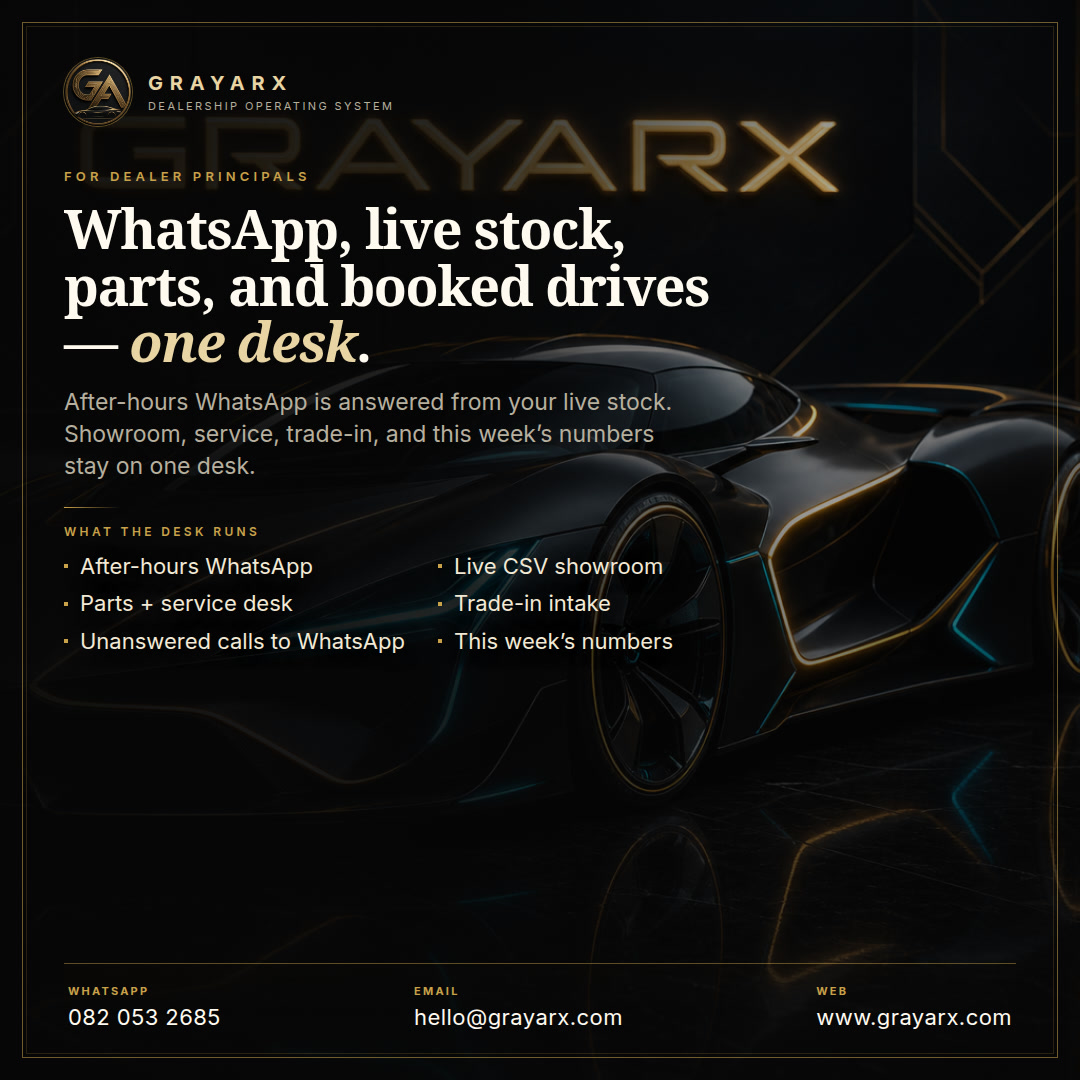
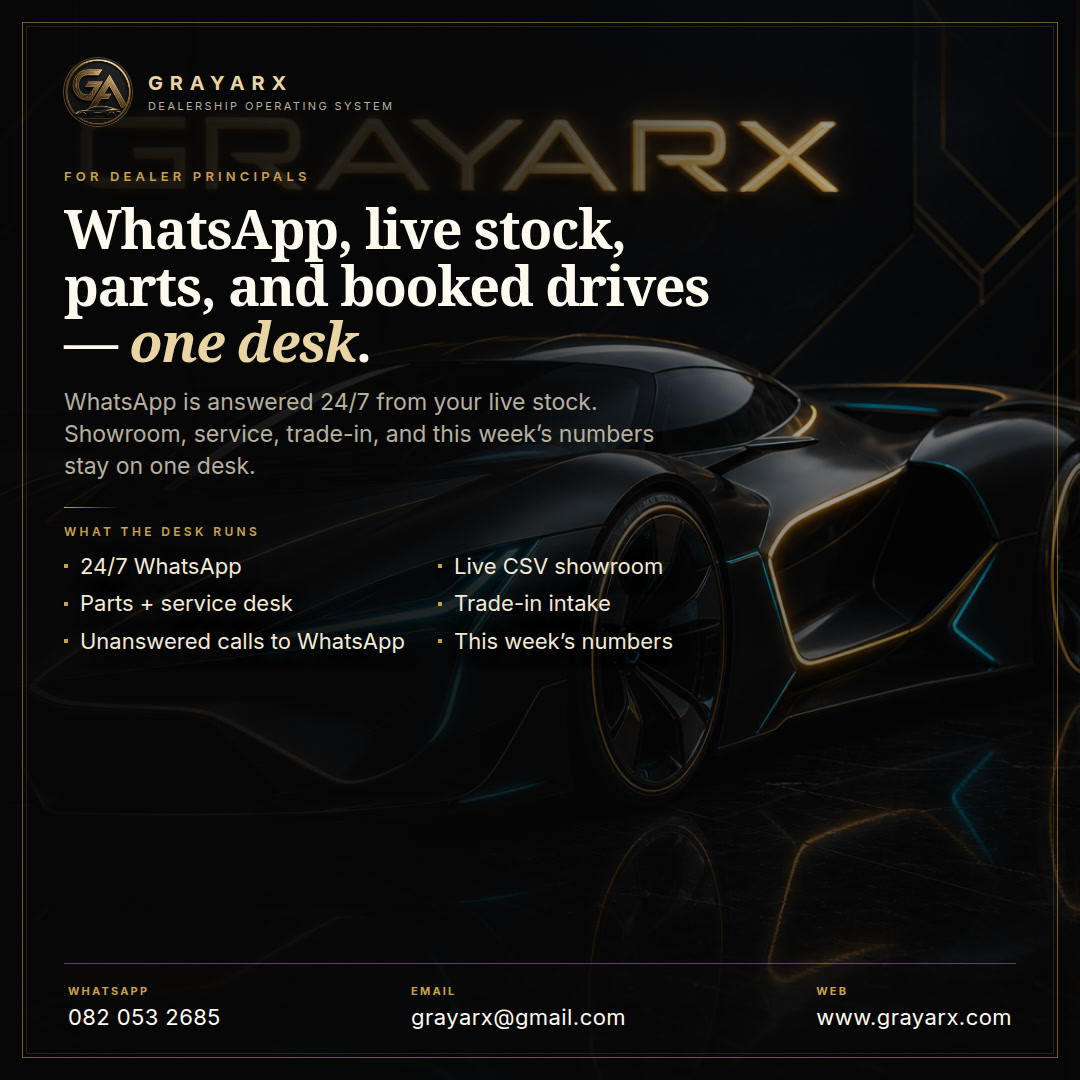
Show 24/7 WhatsApp and grayarx@gmail.com on Facebook ads.
The desk is always on, not after-hours only. Contact on the creative is the founder WhatsApp and Gmail inbox.

Changed region(s): [[0.0611, 0.3667, 0.6111, 0.3972], [0.3667, 0.9167, 0.5806, 0.9778], [0.0611, 0.5194, 0.3056, 0.55]]

diff --git a/docs/facebook-ads/templates/feed-1080.html b/docs/facebook-ads/templates/feed-1080.html
@@ -76,11 +76,11 @@
         </div>
         <div class="eyebrow">For dealer principals</div>
         <h1>WhatsApp, live stock, parts, and booked drives — <em>one desk</em>.</h1>
-        <p class="sub">After-hours WhatsApp is answered from your live stock. Showroom, service, trade-in, and this week’s numbers stay on one desk.</p>
+        <p class="sub">WhatsApp is answered 24/7 from your live stock. Showroom, service, trade-in, and this week’s numbers stay on one desk.</p>
         <div class="rule"></div>
         <div class="services-label">What the desk runs</div>
         <ul class="services" style="margin-top: 14px">
-          <li>After-hours WhatsApp</li>
+          <li>24/7 WhatsApp</li>
           <li>Live CSV showroom</li>
           <li>Parts + service desk</li>
           <li>Trade-in intake</li>
@@ -89,7 +89,7 @@
         </ul>
         <div class="contact">
           <div class="row"><span class="label">WhatsApp</span><span class="value">082 053 2685</span></div>
-          <div class="row"><span class="label">Email</span><span class="value">hello@grayarx.com</span></div>
+          <div class="row"><span class="label">Email</span><span class="value">grayarx@gmail.com</span></div>
           <div class="row"><span class="label">Web</span><span class="value">www.grayarx.com</span></div>
         </div>
       </div>

diff --git a/docs/facebook-ads/templates/story-1080x1920.html b/docs/facebook-ads/templates/story-1080x1920.html
@@ -83,11 +83,11 @@
         </div>
         <div class="eyebrow">For dealer principals</div>
         <h1>WhatsApp, live stock, parts, and booked drives — <em>one desk</em>.</h1>
-        <p class="sub">After-hours WhatsApp is answered from your live stock. Showroom, service, trade-in, and this week’s numbers stay on one desk.</p>
+        <p class="sub">WhatsApp is answered 24/7 from your live stock. Showroom, service, trade-in, and this week’s numbers stay on one desk.</p>
         <div class="rule"></div>
         <div class="services-label">What the desk runs</div>
         <ul class="services">
-          <li>After-hours WhatsApp</li>
+          <li>24/7 WhatsApp</li>
           <li>Live CSV showroom</li>
           <li>Parts + service desk</li>
           <li>Trade-in intake</li>
@@ -96,7 +96,7 @@
         </ul>
         <div class="contact">
           <div class="row"><span class="label">WhatsApp</span><span class="value">082 053 2685</span></div>
-          <div class="row"><span class="label">Email</span><span class="value">hello@grayarx.com</span></div>
+          <div class="row"><span class="label">Email</span><span class="value">grayarx@gmail.com</span></div>
           <div class="row"><span class="label">Web</span><span class="value">www.grayarx.com</span></div>
         </div>
       </div>

diff --git a/docs/facebook-ads/templates/landscape-1200x628.html b/docs/facebook-ads/templates/landscape-1200x628.html
@@ -95,10 +95,10 @@
         </div>
         <div class="eyebrow">For dealer principals</div>
         <h1>WhatsApp, live stock, parts, and booked drives — <em>one desk</em>.</h1>
-        <p class="sub">After-hours WhatsApp, live CSV showroom, service, trade-in, unanswered calls to WhatsApp, this week’s numbers.</p>
+        <p class="sub">24/7 WhatsApp, live CSV showroom, service, trade-in, unanswered calls to WhatsApp, this week’s numbers.</p>
         <div class="rule"></div>
         <ul class="services">
-          <li>After-hours WhatsApp</li>
+          <li>24/7 WhatsApp</li>
           <li>Live CSV showroom</li>
           <li>Parts, service, trade-in</li>
           <li>Unanswered calls to WhatsApp</li>
@@ -106,7 +106,7 @@
         </div>
         <div class="contact">
           <div class="row"><span class="label">WhatsApp</span><span class="value">082 053 2685</span></div>
-          <div class="row"><span class="label">Email</span><span class="value">hello@grayarx.com</span></div>
+          <div class="row"><span class="label">Email</span><span class="value">grayarx@gmail.com</span></div>
           <div class="row"><span class="label">Web</span><span class="value">www.grayarx.com</span></div>
         </div>
       </div>

diff --git a/docs/facebook-ads/README.md b/docs/facebook-ads/README.md
@@ -2,7 +2,7 @@
 
 Pixel-ready creatives + paste fields for Meta Ads Manager. The **image** explains the desk and carries contact details (a picture cannot be clicked). Meta’s own CTA button sits under the image in Ads Manager.
 
-Pitch matches `shared/cashvertising.ts`. Contact matches `client/src/lib/contact.ts`. No competitor brands. No invented testimonials. No fake buttons on the creative.
+No competitor brands. No invented testimonials. No fake buttons. No internal agent names.
 
 ## Files to upload
 
@@ -25,10 +25,10 @@ Re-render with `node docs/facebook-ads/render.mjs`.
 **Primary text**
 
 ```
-GrayArx is the dealership operating system: after-hours WhatsApp answered from your live stock, a CSV showroom that stays true, and parts, service, trade-in, unanswered calls sent to WhatsApp, and this week’s numbers on one desk.
+GrayArx is the dealership operating system: WhatsApp answered 24/7 from your live stock, a CSV showroom that stays true, and parts, service, trade-in, unanswered calls sent to WhatsApp, and this week’s numbers on one desk.
 
 WhatsApp 082 053 2685
-hello@grayarx.com
+grayarx@gmail.com
 www.grayarx.com
 ```
 
@@ -41,7 +41,7 @@ Dealership OS on one desk
 **Description**
 
 ```
-082 053 2685 · hello@grayarx.com
+082 053 2685 · grayarx@gmail.com
 ```
 
 **Display link:** grayarx.com
@@ -49,8 +49,8 @@ Dealership OS on one desk
 ## On the image
 
 - What it is: dealership operating system
-- What it runs: after-hours WhatsApp, live CSV showroom, parts + service, trade-in, unanswered calls to WhatsApp, this week’s numbers
-- How to reach: WhatsApp 082 053 2685 · hello@grayarx.com · www.grayarx.com
+- What it runs: 24/7 WhatsApp, live CSV showroom, parts + service, trade-in, unanswered calls to WhatsApp, this week’s numbers
+- How to reach: WhatsApp 082 053 2685 · grayarx@gmail.com · www.grayarx.com
 
 ## Do not
 
